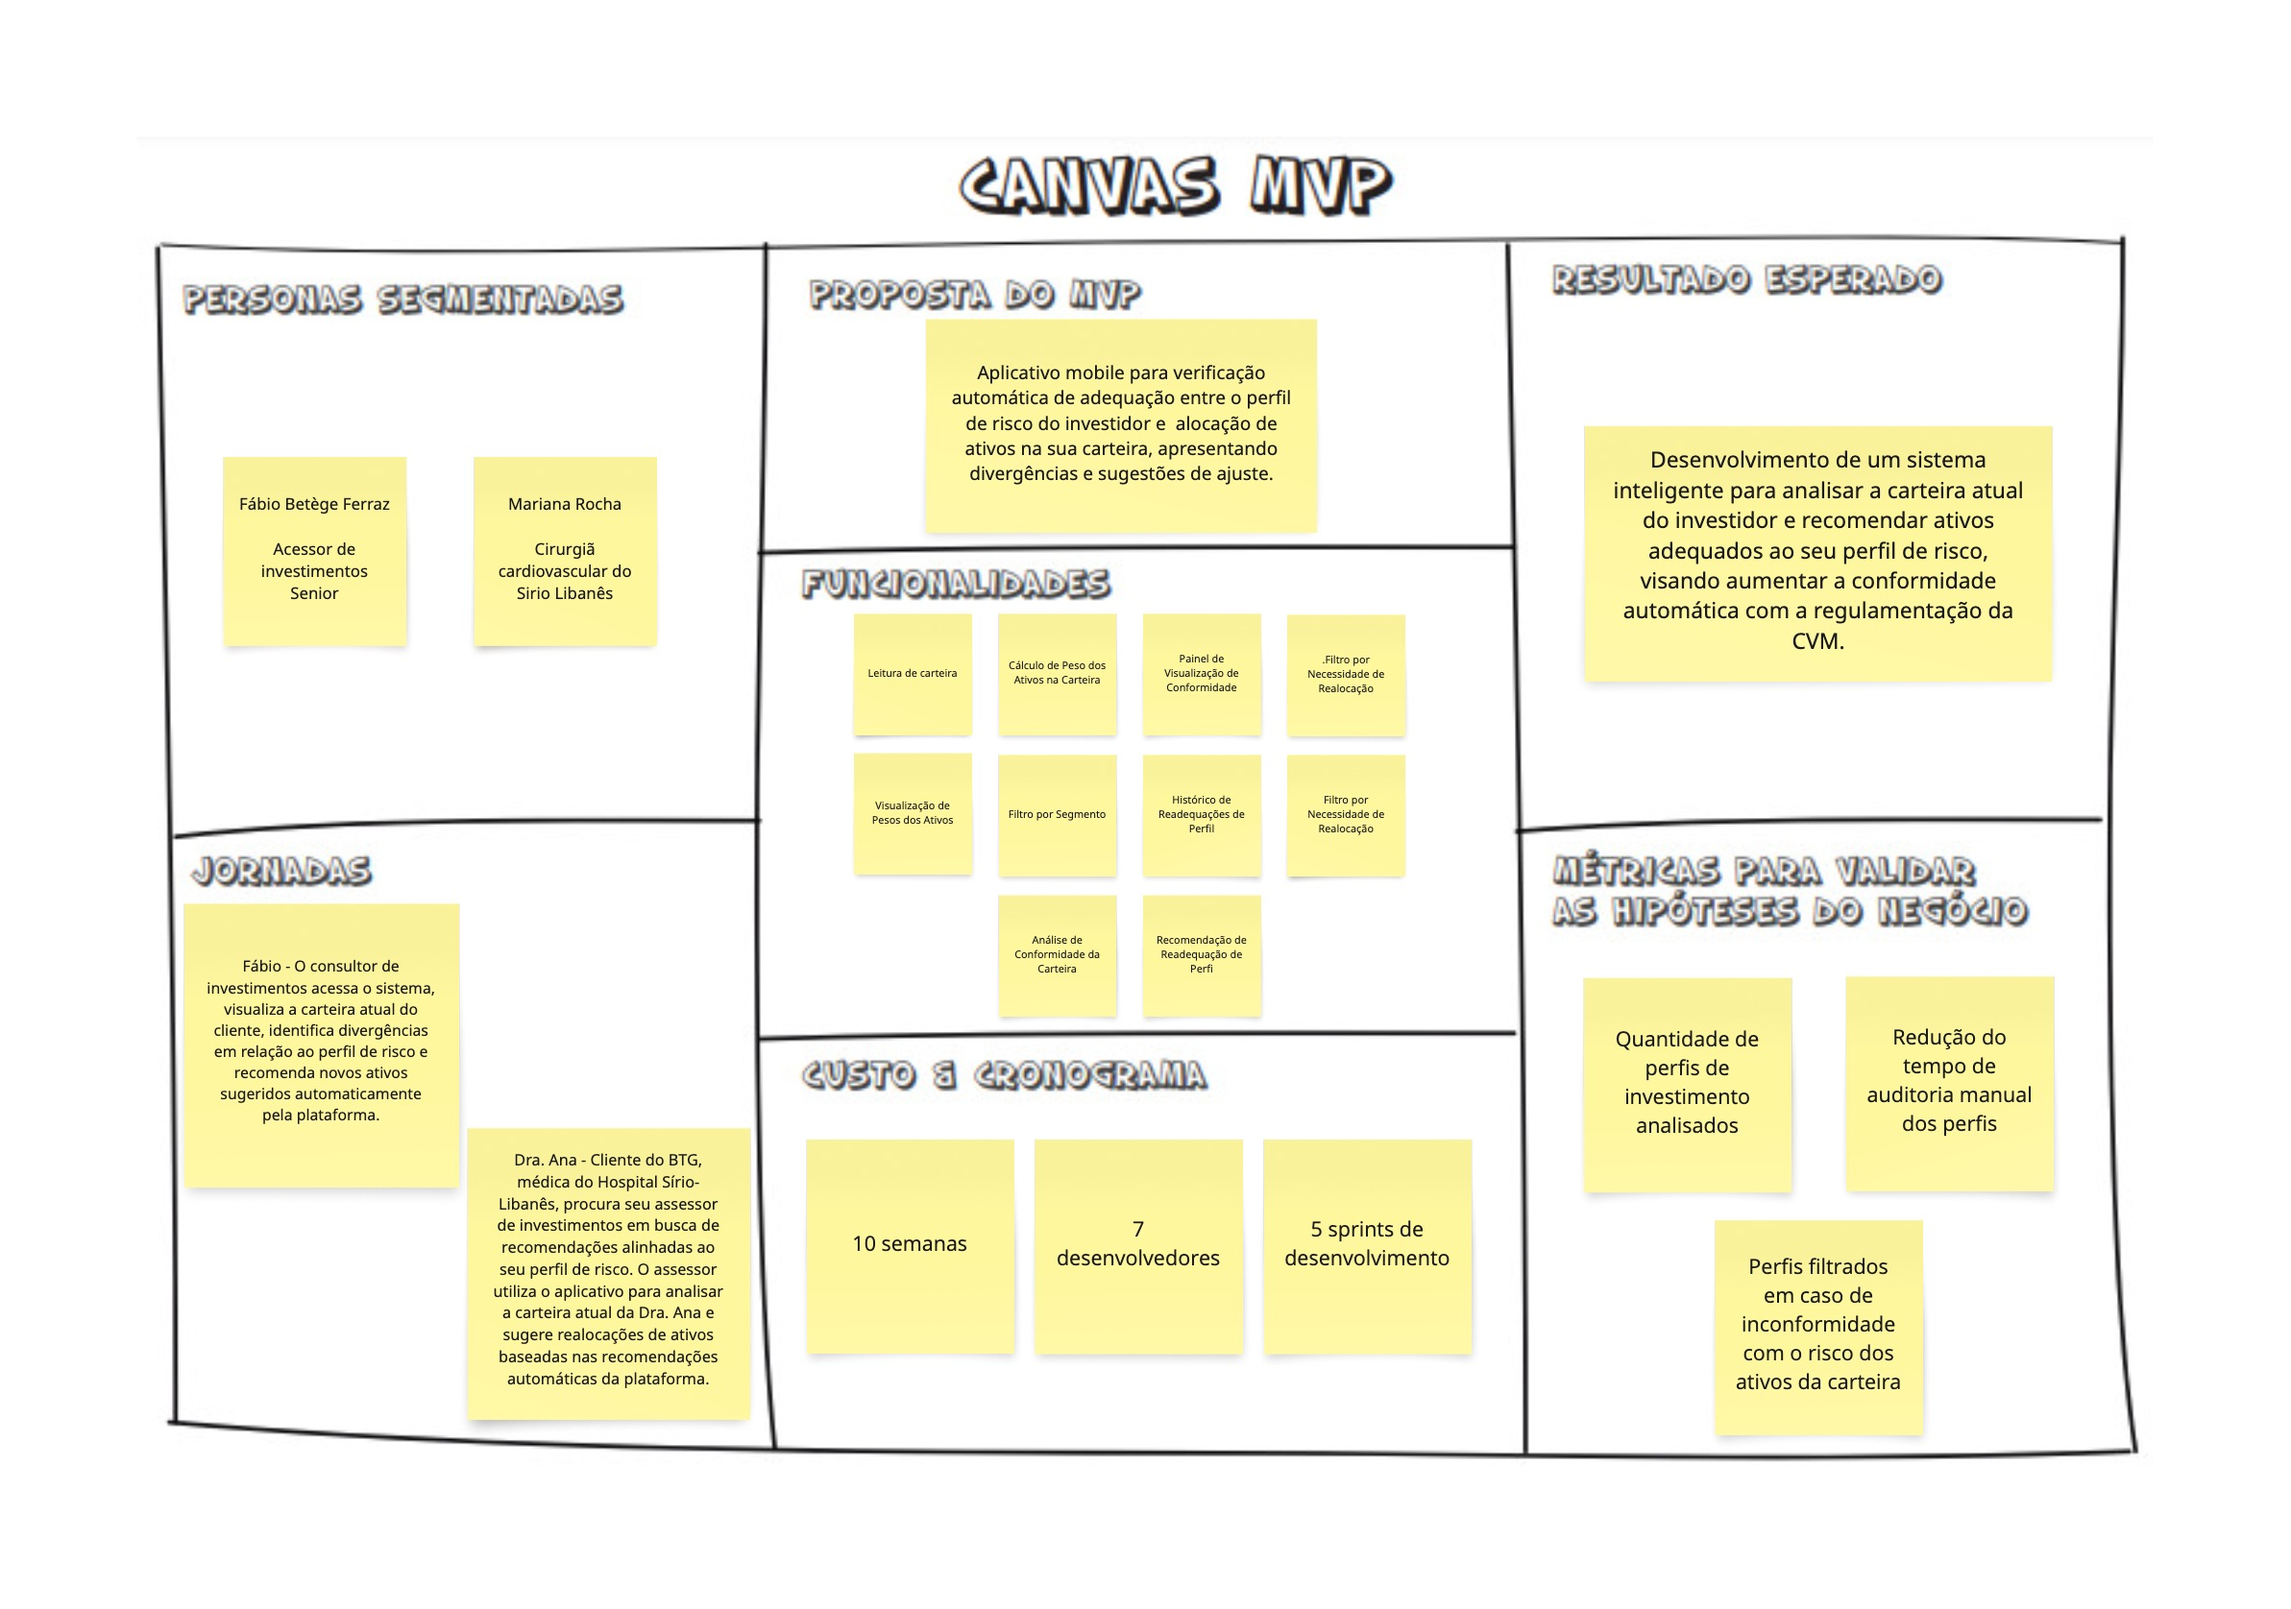
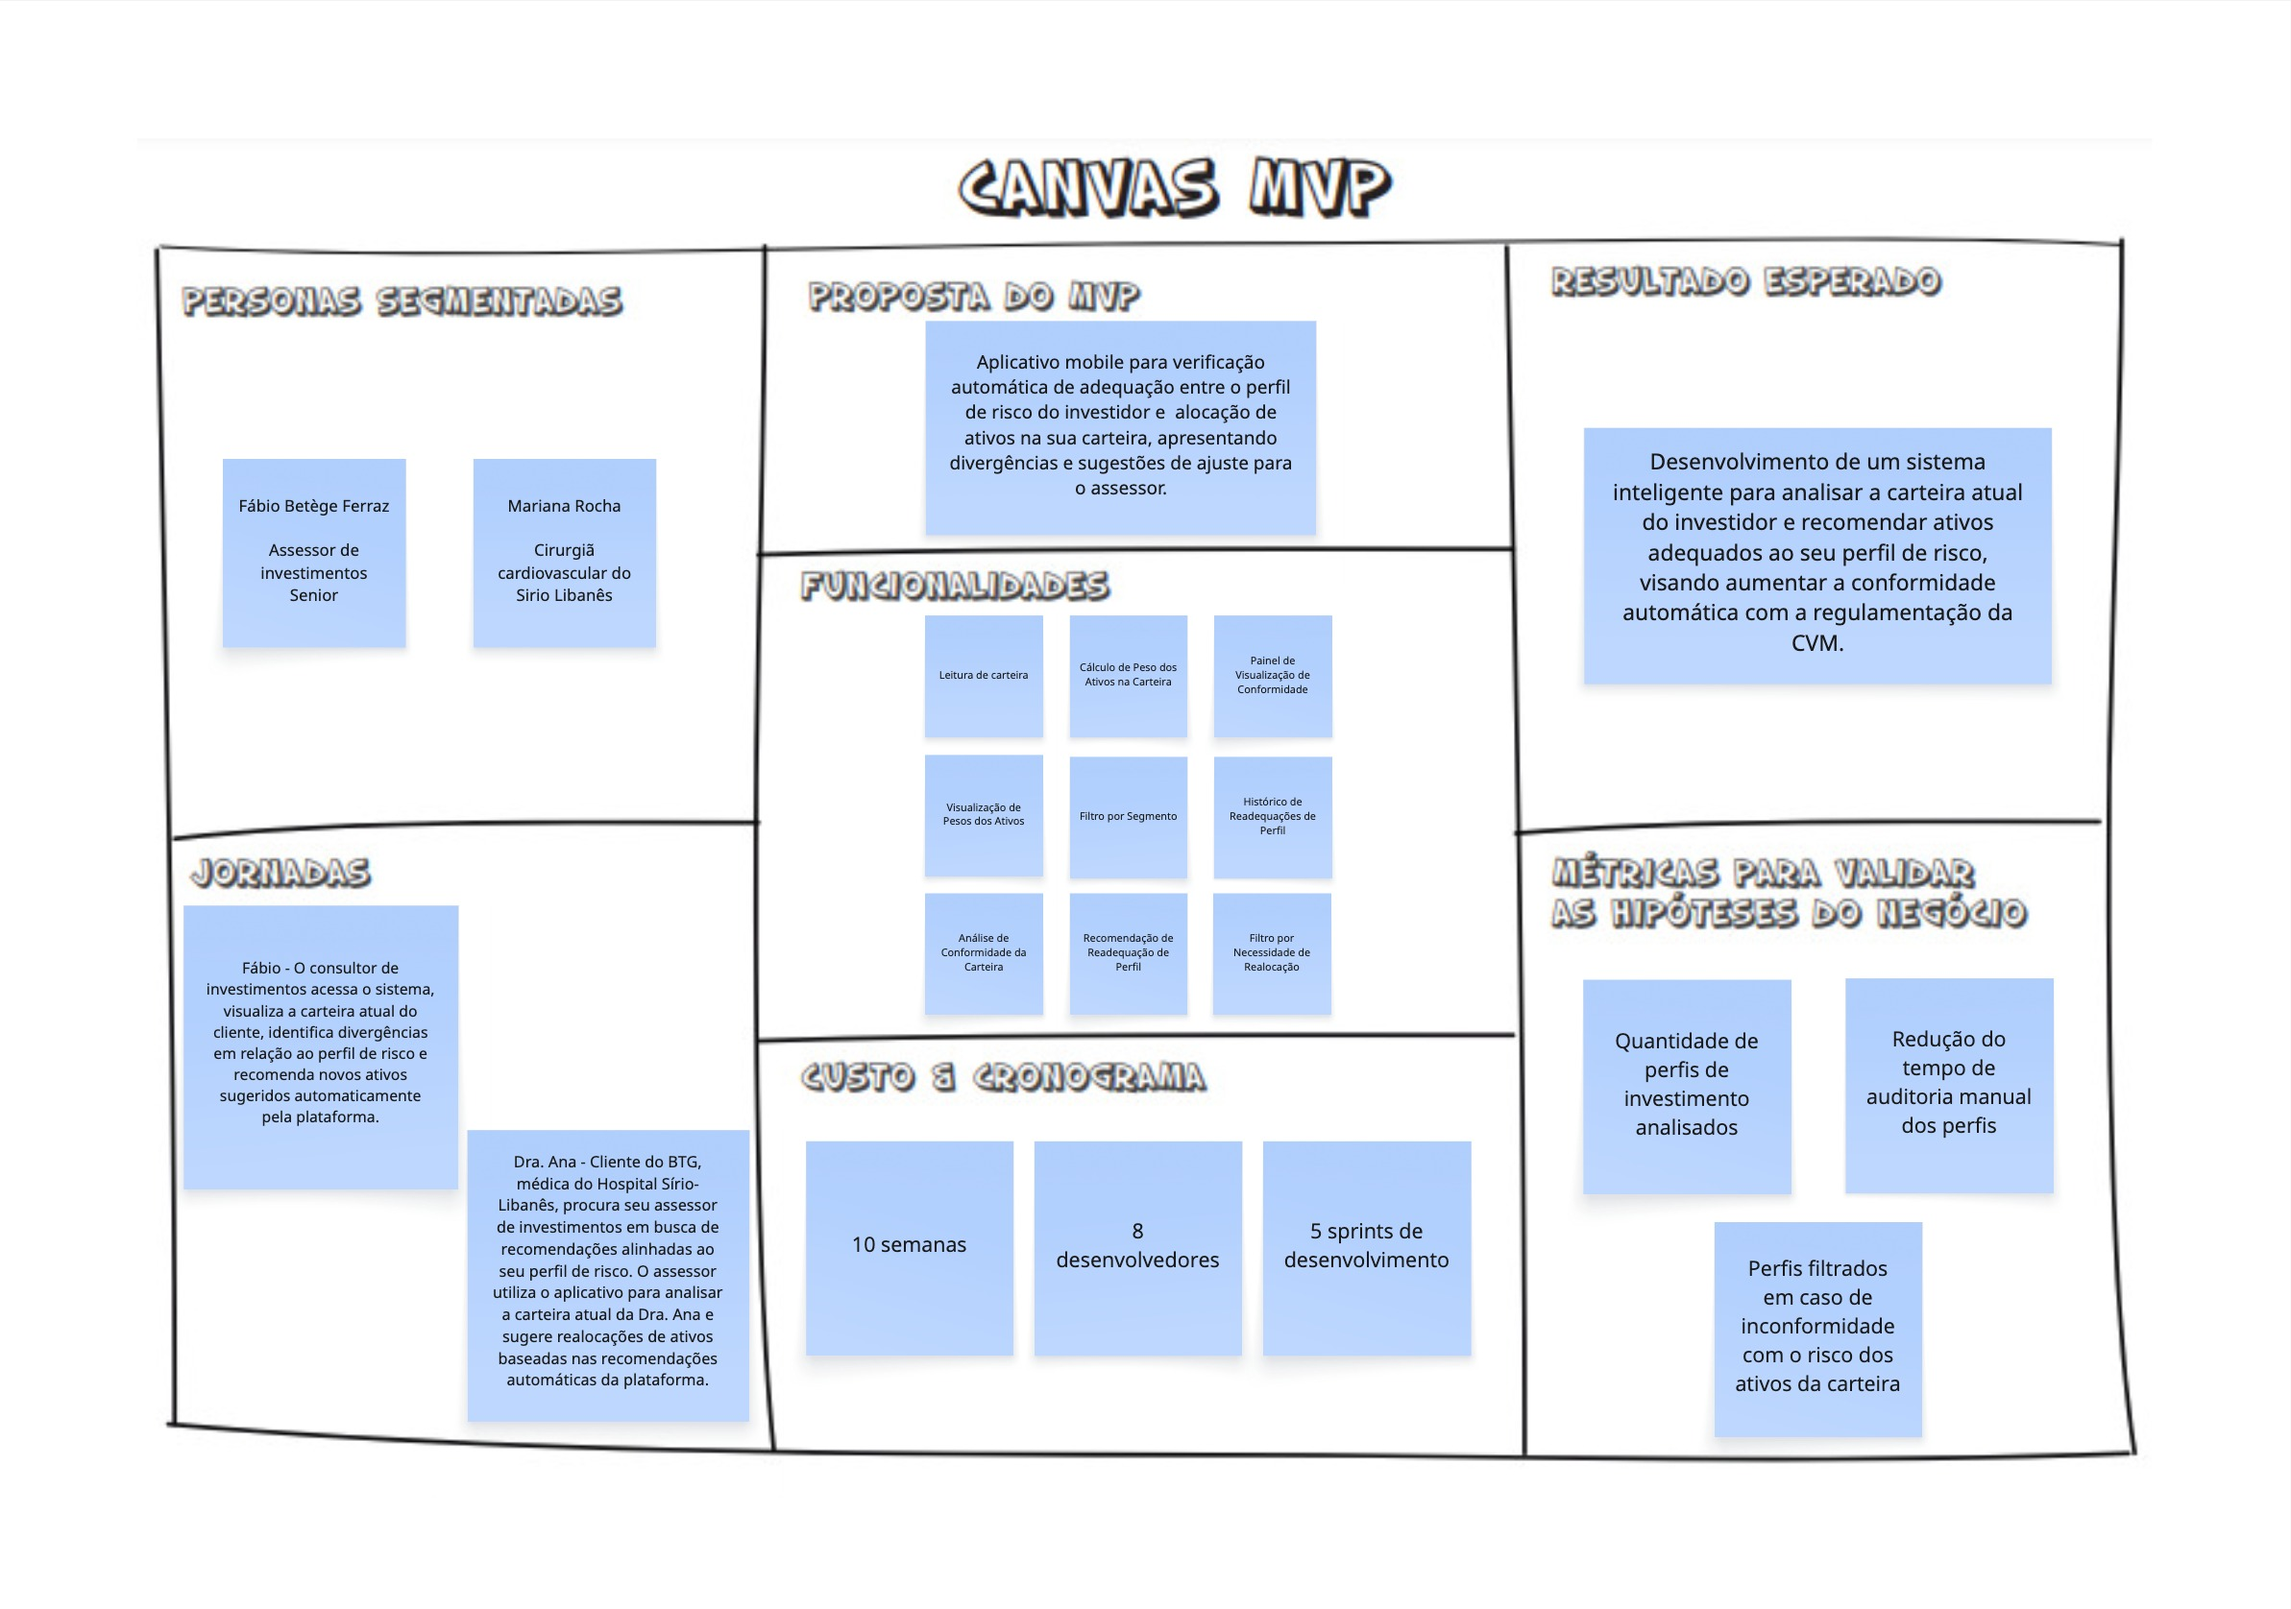
chore: corrige erros apontados no PR do canvas

diff --git a/documentos/Projeto.md b/documentos/Projeto.md
@@ -139,7 +139,7 @@ Obs.: Seção dedicada a discussão sobre ideias e priorização de features.
 
 ## 2.8 Canvas do Projeto
 
-&nbsp;&nbsp;&nbsp;&nbsp;Segue abaixo, o canvas MVP da aplicação web desenvolvido a partir das atividades realizadas durante o Lean Inception proposto no workshop com o parceiro.
+&nbsp;&nbsp;&nbsp;&nbsp;Segue abaixo, o canvas MVP da aplicação web desenvolvido a partir das atividades realizadas durante o workshop com o parceiro.
 
 <div align="center">
 <sub>Figura x - Canvas MVP do projeto</sub><br>
